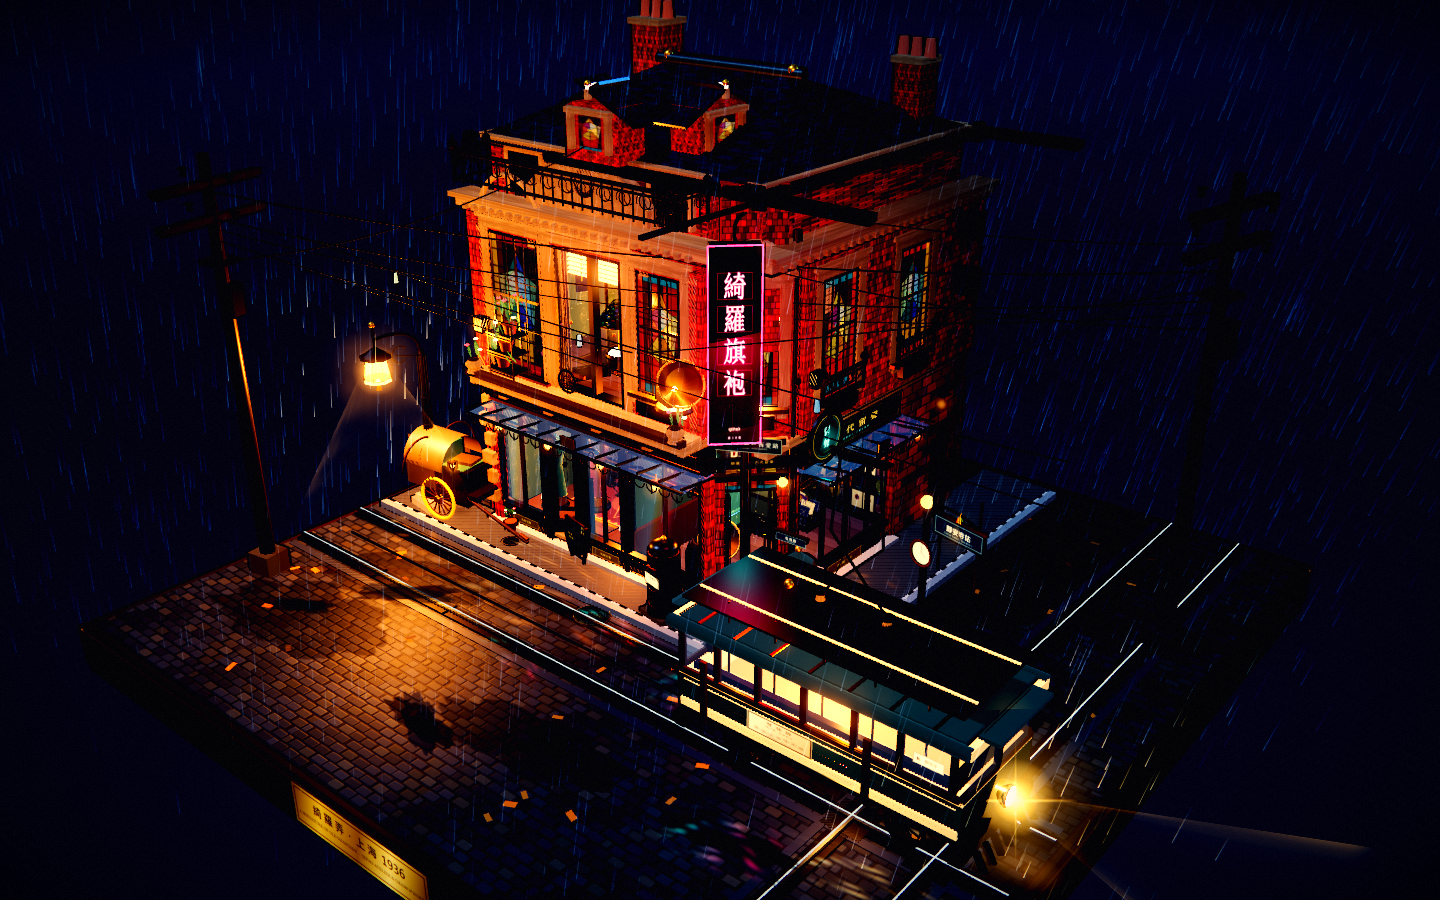
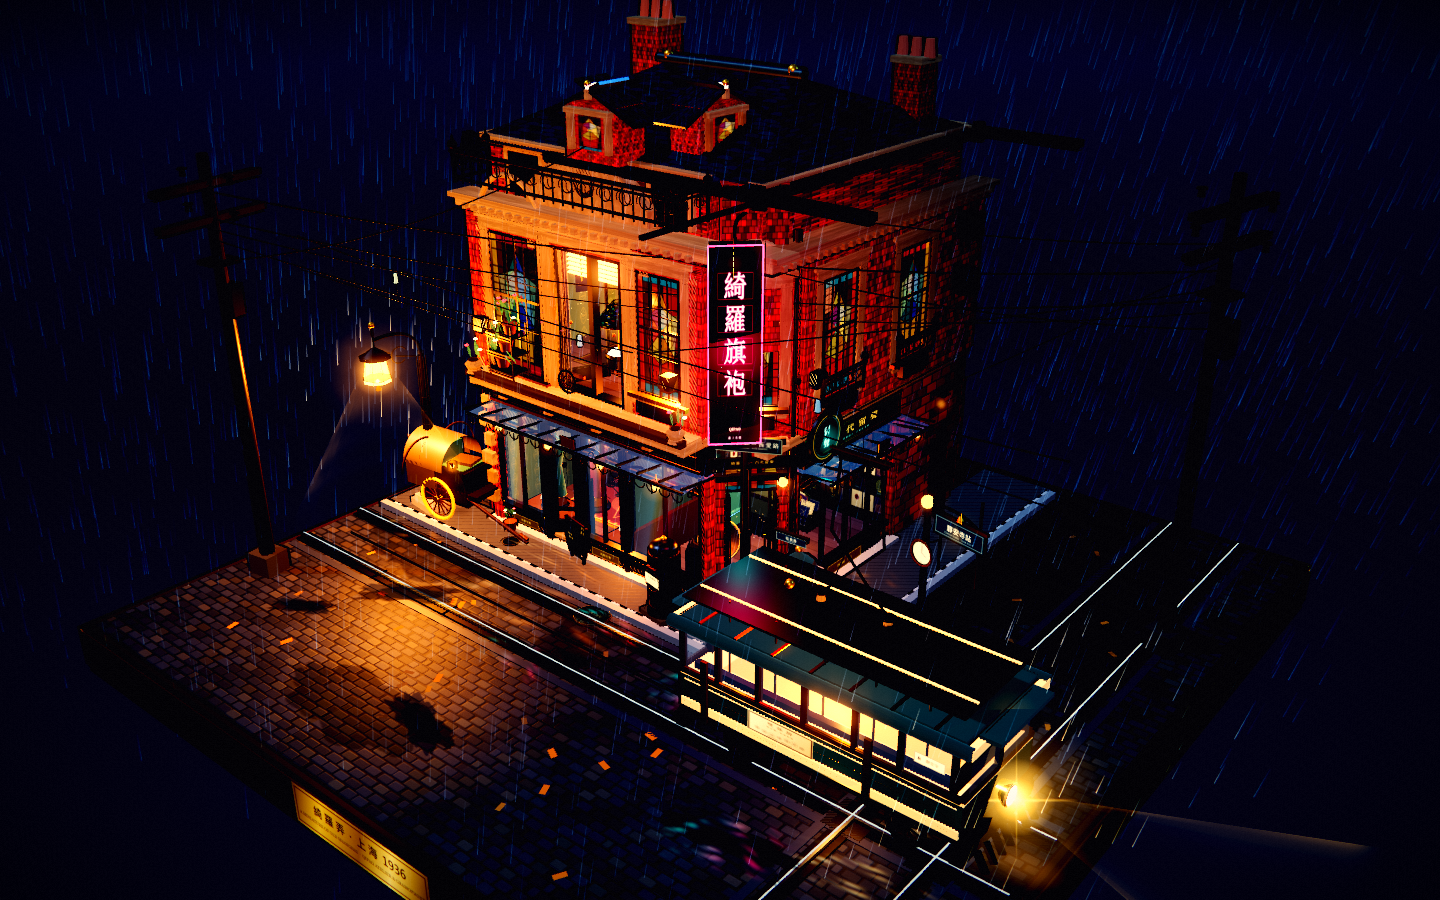
v0.0.6: remove the gramophone from A15's balcony
The horn is 0.86 wide against a balcony only ~0.8 deep, so the assembly
ran from z=0.73 (inside the window opening) to z=1.72 (past the railing)
— from the street it looked like a gramophone wedged into the windowsill.

Removed the balconyGramophone() call; the balcony keeps its railing,
parapet, flower stand and urns, and the record shop still has its brass
horn machine. Function kept for easy restore.

940 calls (was 944), 131,810 tris. Preview, thumbnail, index, README,
AUDIT.md and profiles.md refreshed.

diff --git a/_extracted/a15-qipao-diorama/qipao-diorama/standalone/qipao-diorama.html b/_extracted/a15-qipao-diorama/qipao-diorama/standalone/qipao-diorama.html
@@ -4297,7 +4297,12 @@ console.warn( 'Scripts "build/three.js" and "build/three.min.js" are deprecated 
 
     /* ============ balcony ============ */
     var bal = QP.group(g, 0, 0, 0);
-    balconyGramophone(bal, -0.18, 3.83, 1.07);
+    /* 阳台上原本放着一台带大喇叭的留声机（balconyGramophone）。
+       问题：喇叭口径约 0.86，而阳台进深只有 0.8 出头，整台机器从 z=0.73 一直伸到 1.72，
+       等于把窗洞和栏杆全占了，从外面看就是"一台留声机卡在二楼窗台上"，不符合实景。
+       留声机保留在一楼唱片行里（见上面那台），阳台只留花架与石瓮盆栽。
+       函数定义仍然留着，想恢复直接取消下面这行注释即可。 */
+    // balconyGramophone(bal, -0.18, 3.83, 1.07);
     flowerStand(bal, -4.55, 3.83, 1.13);
     /* potted sprays on the stone urns */
     function urnPlant(x) {

diff --git a/_extracted/a15-qipao-diorama/qipao-diorama/src/interiors.js b/_extracted/a15-qipao-diorama/qipao-diorama/src/interiors.js
@@ -1080,7 +1080,12 @@
 
     /* ============ balcony ============ */
     var bal = QP.group(g, 0, 0, 0);
-    balconyGramophone(bal, -0.18, 3.83, 1.07);
+    /* 阳台上原本放着一台带大喇叭的留声机（balconyGramophone）。
+       问题：喇叭口径约 0.86，而阳台进深只有 0.8 出头，整台机器从 z=0.73 一直伸到 1.72，
+       等于把窗洞和栏杆全占了，从外面看就是"一台留声机卡在二楼窗台上"，不符合实景。
+       留声机保留在一楼唱片行里（见上面那台），阳台只留花架与石瓮盆栽。
+       函数定义仍然留着，想恢复直接取消下面这行注释即可。 */
+    // balconyGramophone(bal, -0.18, 3.83, 1.07);
     flowerStand(bal, -4.55, 3.83, 1.13);
     /* potted sprays on the stone urns */
     function urnPlant(x) {

diff --git a/index.html b/index.html
@@ -371,7 +371,7 @@ const DATA = [
 {
   code:"A15", name:"Qipao Diorama", cn:"1936 上海 · 旗袍与留声",
   theme:"现实复古", tags:["上海","旗袍","留声机","合批 2758→850"],
-  size:"17M", zip:"a15-qipao-diorama.zip", loc:5883, three:"r150", calls:944, tris:132892,
+  size:"17M", zip:"a15-qipao-diorama.zip", loc:5883, three:"r150", calls:940, tris:131810,
   entry:"standalone/qipao-diorama.html", build:"node tools/bundle.mjs", open:"direct", edit:"module",
   preview:"previews/A15.png", pal:["#5a2420","#0f0806"],
   lede:"1936 年上海街角：转角红砖洋房，一楼「綺羅旗袍」与「百代留聲」，二楼蒂芙尼灯映在彩色花玻璃上，门外秋雨、电车、黄包车、流动霓虹。",

diff --git a/README.md b/README.md
@@ -34,7 +34,7 @@ Every preview below is a live scene: click a thumbnail or a title to run it in t
 <tr>
 <td align="center" width="280"><a href="https://cl0ud-99.github.io/diorama-archive/_extracted/a13-mori-mart/mori-mart/index.html"><img src="previews/thumbs/A13.jpg" width="280" alt="Mori Mart"></a><br><a href="https://cl0ud-99.github.io/diorama-archive/_extracted/a13-mori-mart/mori-mart/index.html"><b>A13 · Mori Mart</b></a><br><sub>1,775 calls · r160 · 1.3M</sub></td>
 <td align="center" width="280"><a href="https://cl0ud-99.github.io/diorama-archive/_extracted/a14-polar-icebreaker/polar-icebreaker/polar-icebreaker.html"><img src="previews/thumbs/A14.jpg" width="280" alt="Polar Icebreaker"></a><br><a href="https://cl0ud-99.github.io/diorama-archive/_extracted/a14-polar-icebreaker/polar-icebreaker/polar-icebreaker.html"><b>A14 · Polar Icebreaker</b></a><br><sub>1,249 calls · r169 · 568K</sub></td>
-<td align="center" width="280"><a href="https://cl0ud-99.github.io/diorama-archive/_extracted/a15-qipao-diorama/qipao-diorama/standalone/qipao-diorama.html"><img src="previews/thumbs/A15.jpg" width="280" alt="Qipao Diorama"></a><br><a href="https://cl0ud-99.github.io/diorama-archive/_extracted/a15-qipao-diorama/qipao-diorama/standalone/qipao-diorama.html"><b>A15 · Qipao Diorama</b></a><br><sub>944 calls · r150 · 17M</sub></td>
+<td align="center" width="280"><a href="https://cl0ud-99.github.io/diorama-archive/_extracted/a15-qipao-diorama/qipao-diorama/standalone/qipao-diorama.html"><img src="previews/thumbs/A15.jpg" width="280" alt="Qipao Diorama"></a><br><a href="https://cl0ud-99.github.io/diorama-archive/_extracted/a15-qipao-diorama/qipao-diorama/standalone/qipao-diorama.html"><b>A15 · Qipao Diorama</b></a><br><sub>940 calls · r150 · 17M</sub></td>
 </tr>
 <tr>
 <td align="center" width="280"><a href="https://cl0ud-99.github.io/diorama-archive/_extracted/a16-route66-diner/route66-diner/index.html"><img src="previews/thumbs/A16.jpg" width="280" alt="Route 66 Diner"></a><br><a href="https://cl0ud-99.github.io/diorama-archive/_extracted/a16-route66-diner/route66-diner/index.html"><b>A16 · Route 66 Diner</b></a><br><sub>2,355 calls · inline · 156K</sub></td>
@@ -129,7 +129,7 @@ Frame rates under software rendering are only meaningful relative to each other.
 | A14 | Polar Icebreaker | 1,249 | r169 | 568K |
 | A06 | Cloud Post Office | 1,154 | inline UMD | 2.9M |
 | A09 | Grand Hotel | 1,009 | r160 | 468K |
-| A15 | Qipao Diorama | 944 | r150 | 17M |
+| A15 | Qipao Diorama | 940 | r150 | 17M |
 | A11 | Lunar Outpost | 889 | r169 | 896K |
 | A10 | The Lighthouse | 864 | r160.1 | 1.6M |
 | A03 | Aurora Hourglass | 721 | r160 | 456K |

diff --git a/CHANGELOG.md b/CHANGELOG.md
@@ -1,5 +1,30 @@
 # Changelog
 
+## 0.0.6 — 2026-10-30
+
+### A15 — removed the gramophone from the second-floor balcony
+
+The balcony carried a gramophone with a flared brass horn. Measured against the geometry it could
+never have worked: the horn is **0.86 wide** while the balcony is only about 0.8 deep, so the whole
+assembly ran from z=0.73 (inside the window opening) to z=1.72 (past the railing). From the street it
+read as "a gramophone wedged into a second-floor windowsill" — the horn covered most of the window.
+
+Removed the `balconyGramophone(bal, -0.18, 3.83, 1.07)` call in `src/interiors.js`. The balcony keeps
+its wrought-iron railing, stone parapet, three-tier flower stand and the stone urns with potted
+sprays. The gramophone motif survives downstairs — the record shop still has its brass-horn machine.
+The function definition is left in place, so restoring it is one uncommented line.
+
+| | before | after |
+|---|---|---|
+| draw calls / frame | 944 | **940** |
+| scene triangles | 132,892 | 131,810 |
+
+Draw calls barely move because most of the gramophone's ~40 parts had already been merged into static
+batches; what changes is the composition, not the cost.
+
+`previews/A15.png` and the gallery thumbnail were re-rendered, and the measures in `index.html`,
+`README.md`, `AUDIT.md` and `profiles.md` were updated to match.
+
 ## 0.0.5 — 2026-10-30
 
 ### Scene-graph audit of all 19 entries

diff --git a/AUDIT.md b/AUDIT.md
@@ -56,7 +56,7 @@
 | A12 | Stutter Lab | 806 | 34 | 103,658 | 120 | 1,529 | 665 | 24 | 111 |
 | A13 | Mori Mart | 1,095 | 237 | 173,823 | 723 | 1,775 | 343 | 0 | 45 |
 | A14 | Polar Icebreaker | 809 | 333 | 36,808 | 361 | 1,249 | 136 | 0 | 6 |
-| A15 | Qipao Diorama | 719 | 148 | 114,429 | 621 | 944 | 0 | 408 | 138 |
+| A15 | Qipao Diorama | 716 | 148 | 113,349 | 618 | 940 | 0 | 408 | 138 |
 | A16 | Route 66 Diner | 1,223 | 42 | 104,482 | 214 | 2,355 | 990 | 0 | 73 |
 | A17 | The Red Room | 1,137 | 352 | 205,331 | 263 | 1,754 | 552 | 220 | 103 |
 | A18 | Sunset Dream Loom | 2,019 | 522 | 1,135,927 | 480 | 2,606 | 1,159 | 2 | 48 |
